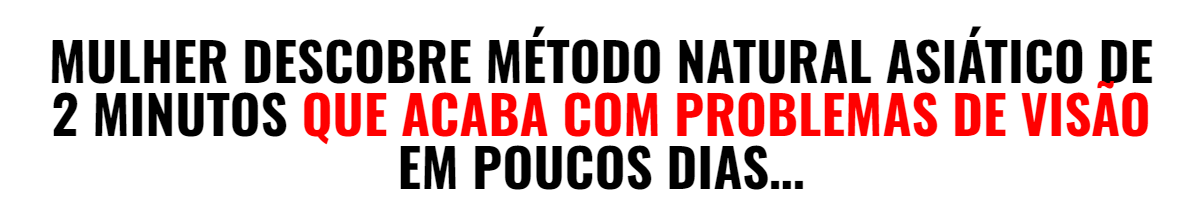
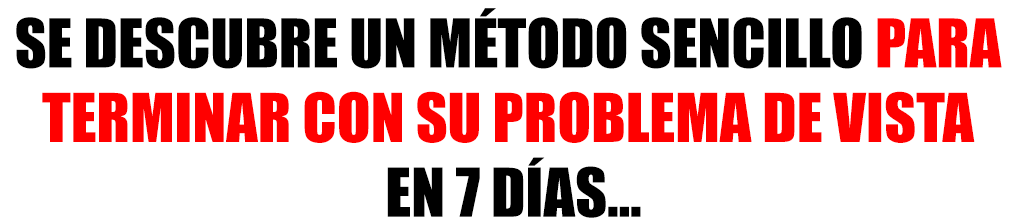
Add files via upload

diff --git a/index.html b/index.html
@@ -194,7 +194,10 @@ src="https://www.facebook.com/tr?id=3155276661404676&ev=PageView&noscript=1"
     </script>		</div>
 				</div>
 				
-
+				<div class="elementor-element elementor-element-feef1e2 elementor-hidden-mobile elementor-widget elementor-widget-image" data-id="feef1e2" data-element_type="widget" data-widget_type="image.default">
+				<div class="elementor-widget-container">
+				<img width="650" height="1000" src="images/head.png" class="attachment-full size-full" alt="" loading=""> </div>
+                                    <!--         HEADLINE              -->                        
 
 				<div class="elementor-element elementor-element-59fc6986 elementor-widget elementor-widget-html" data-id="59fc6986" data-element_type="widget" data-widget_type="html.default">
 				<div class="elementor-widget-container">
